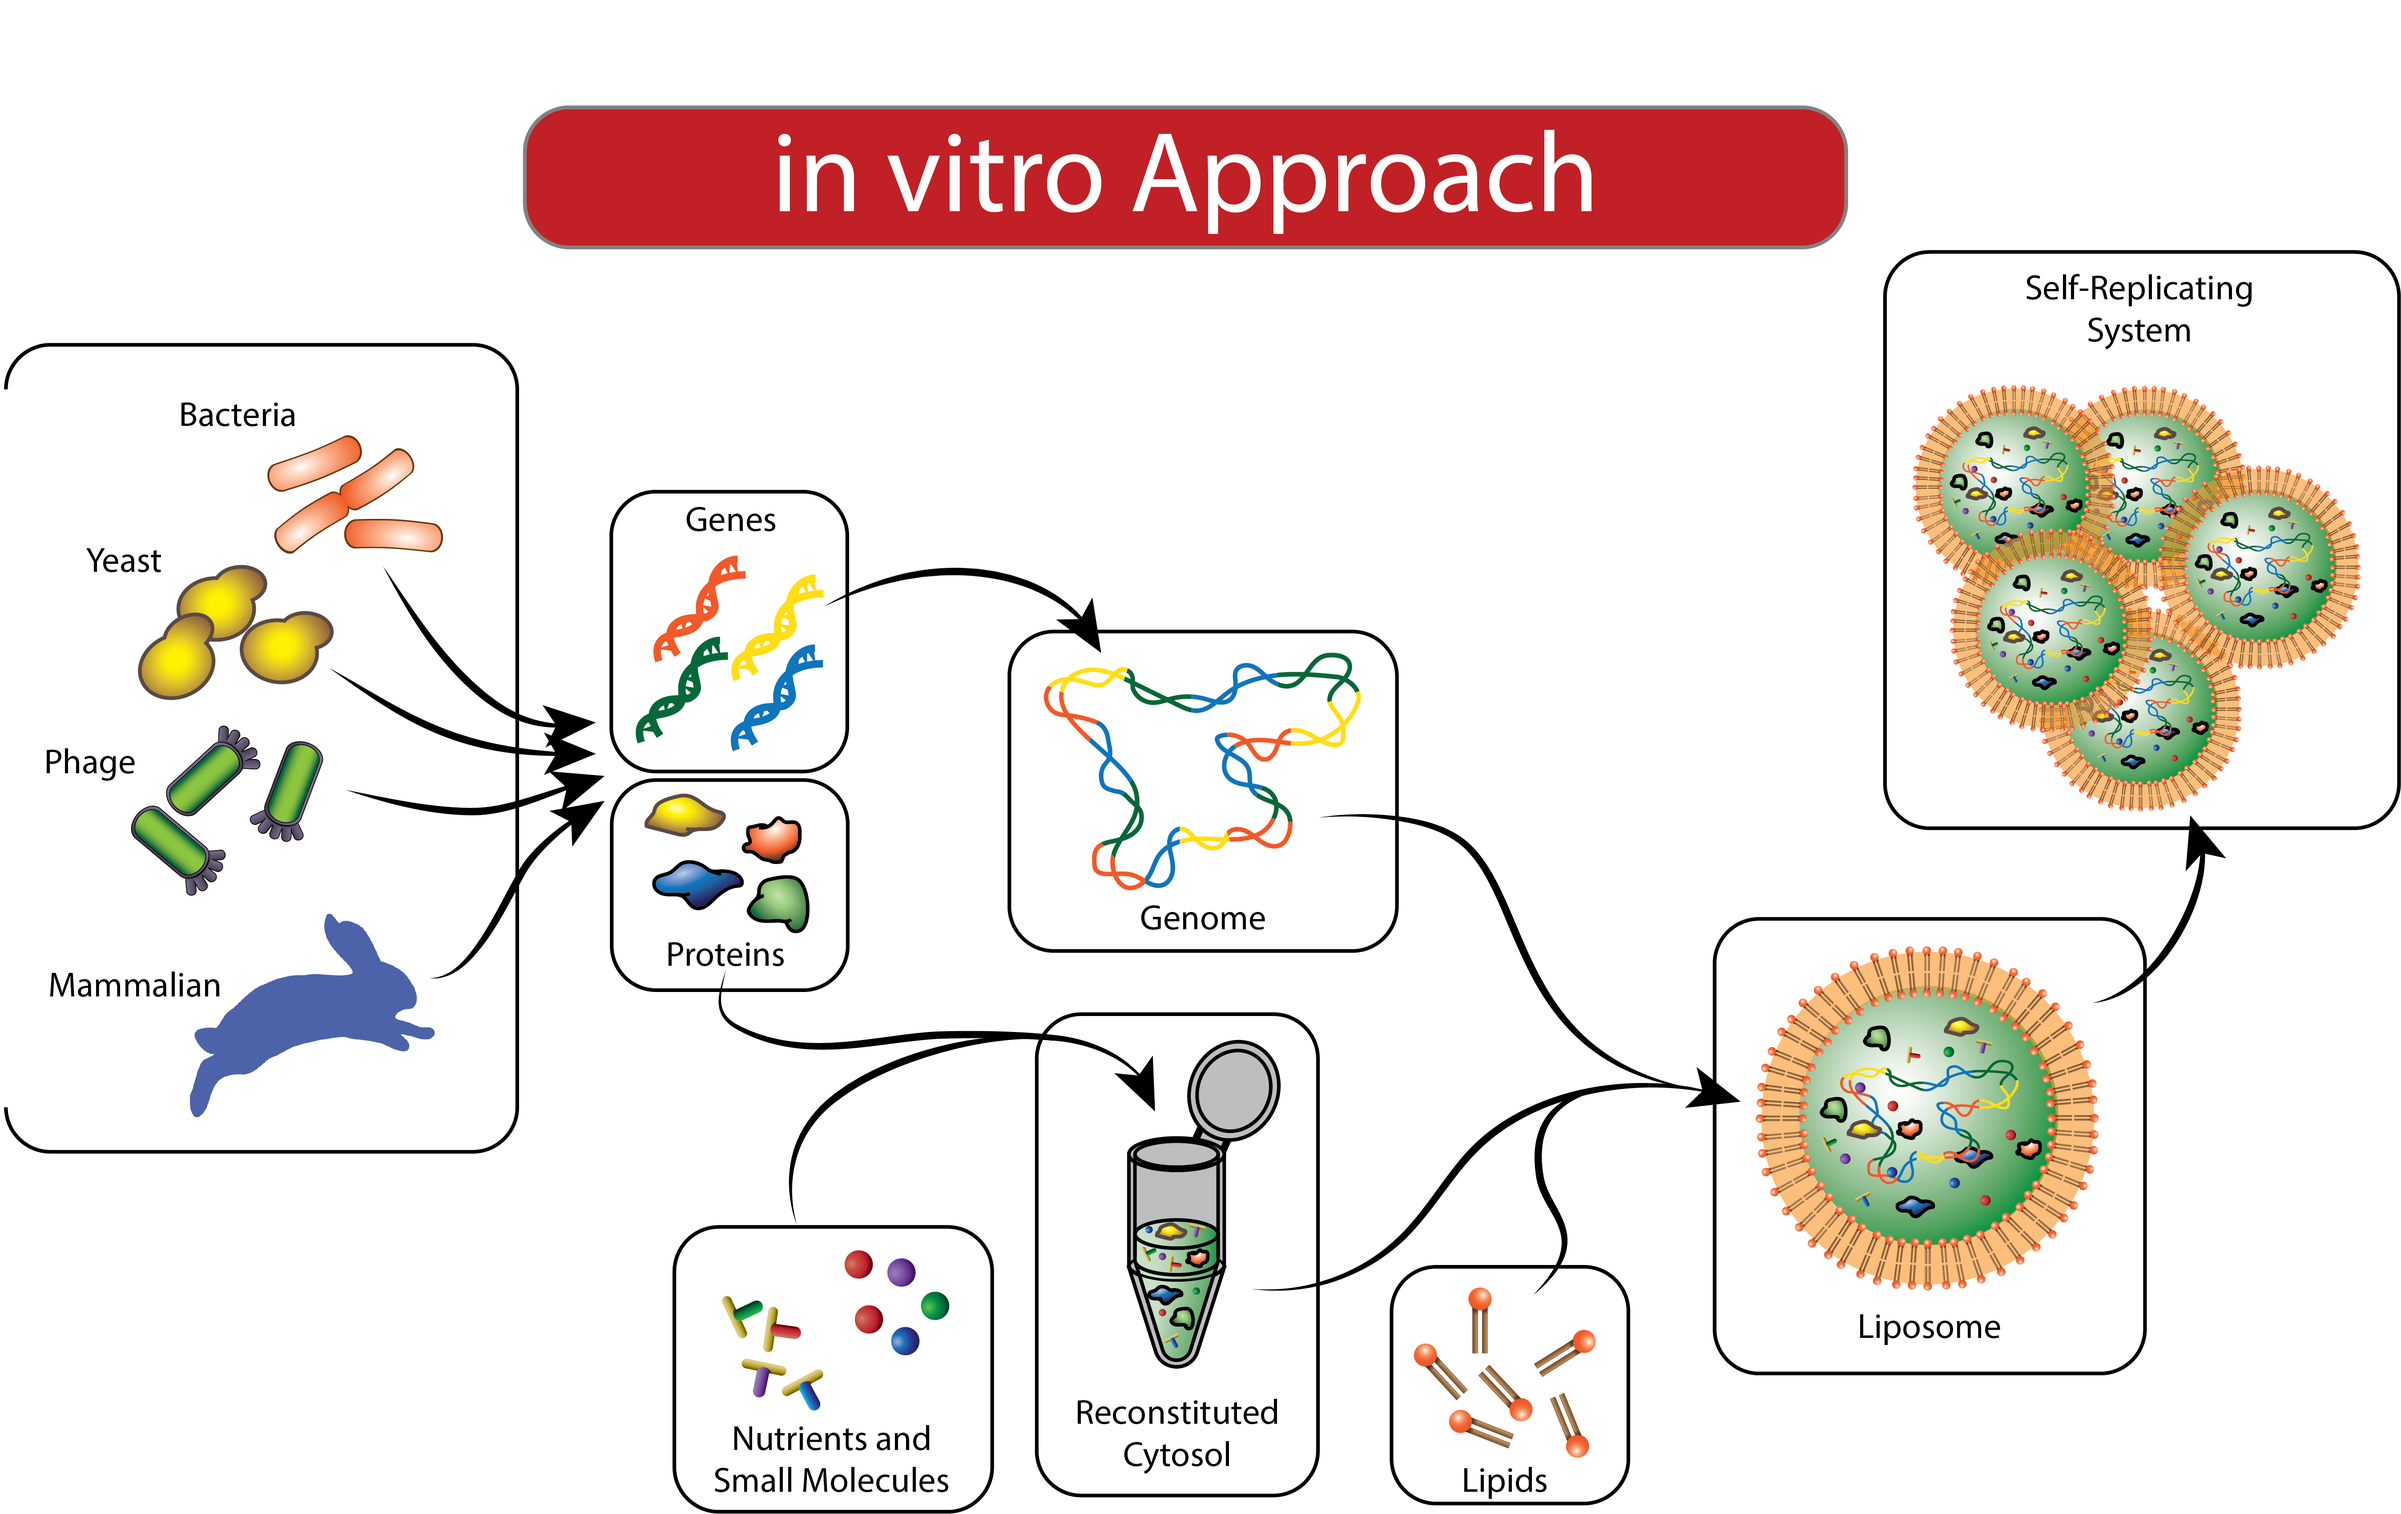
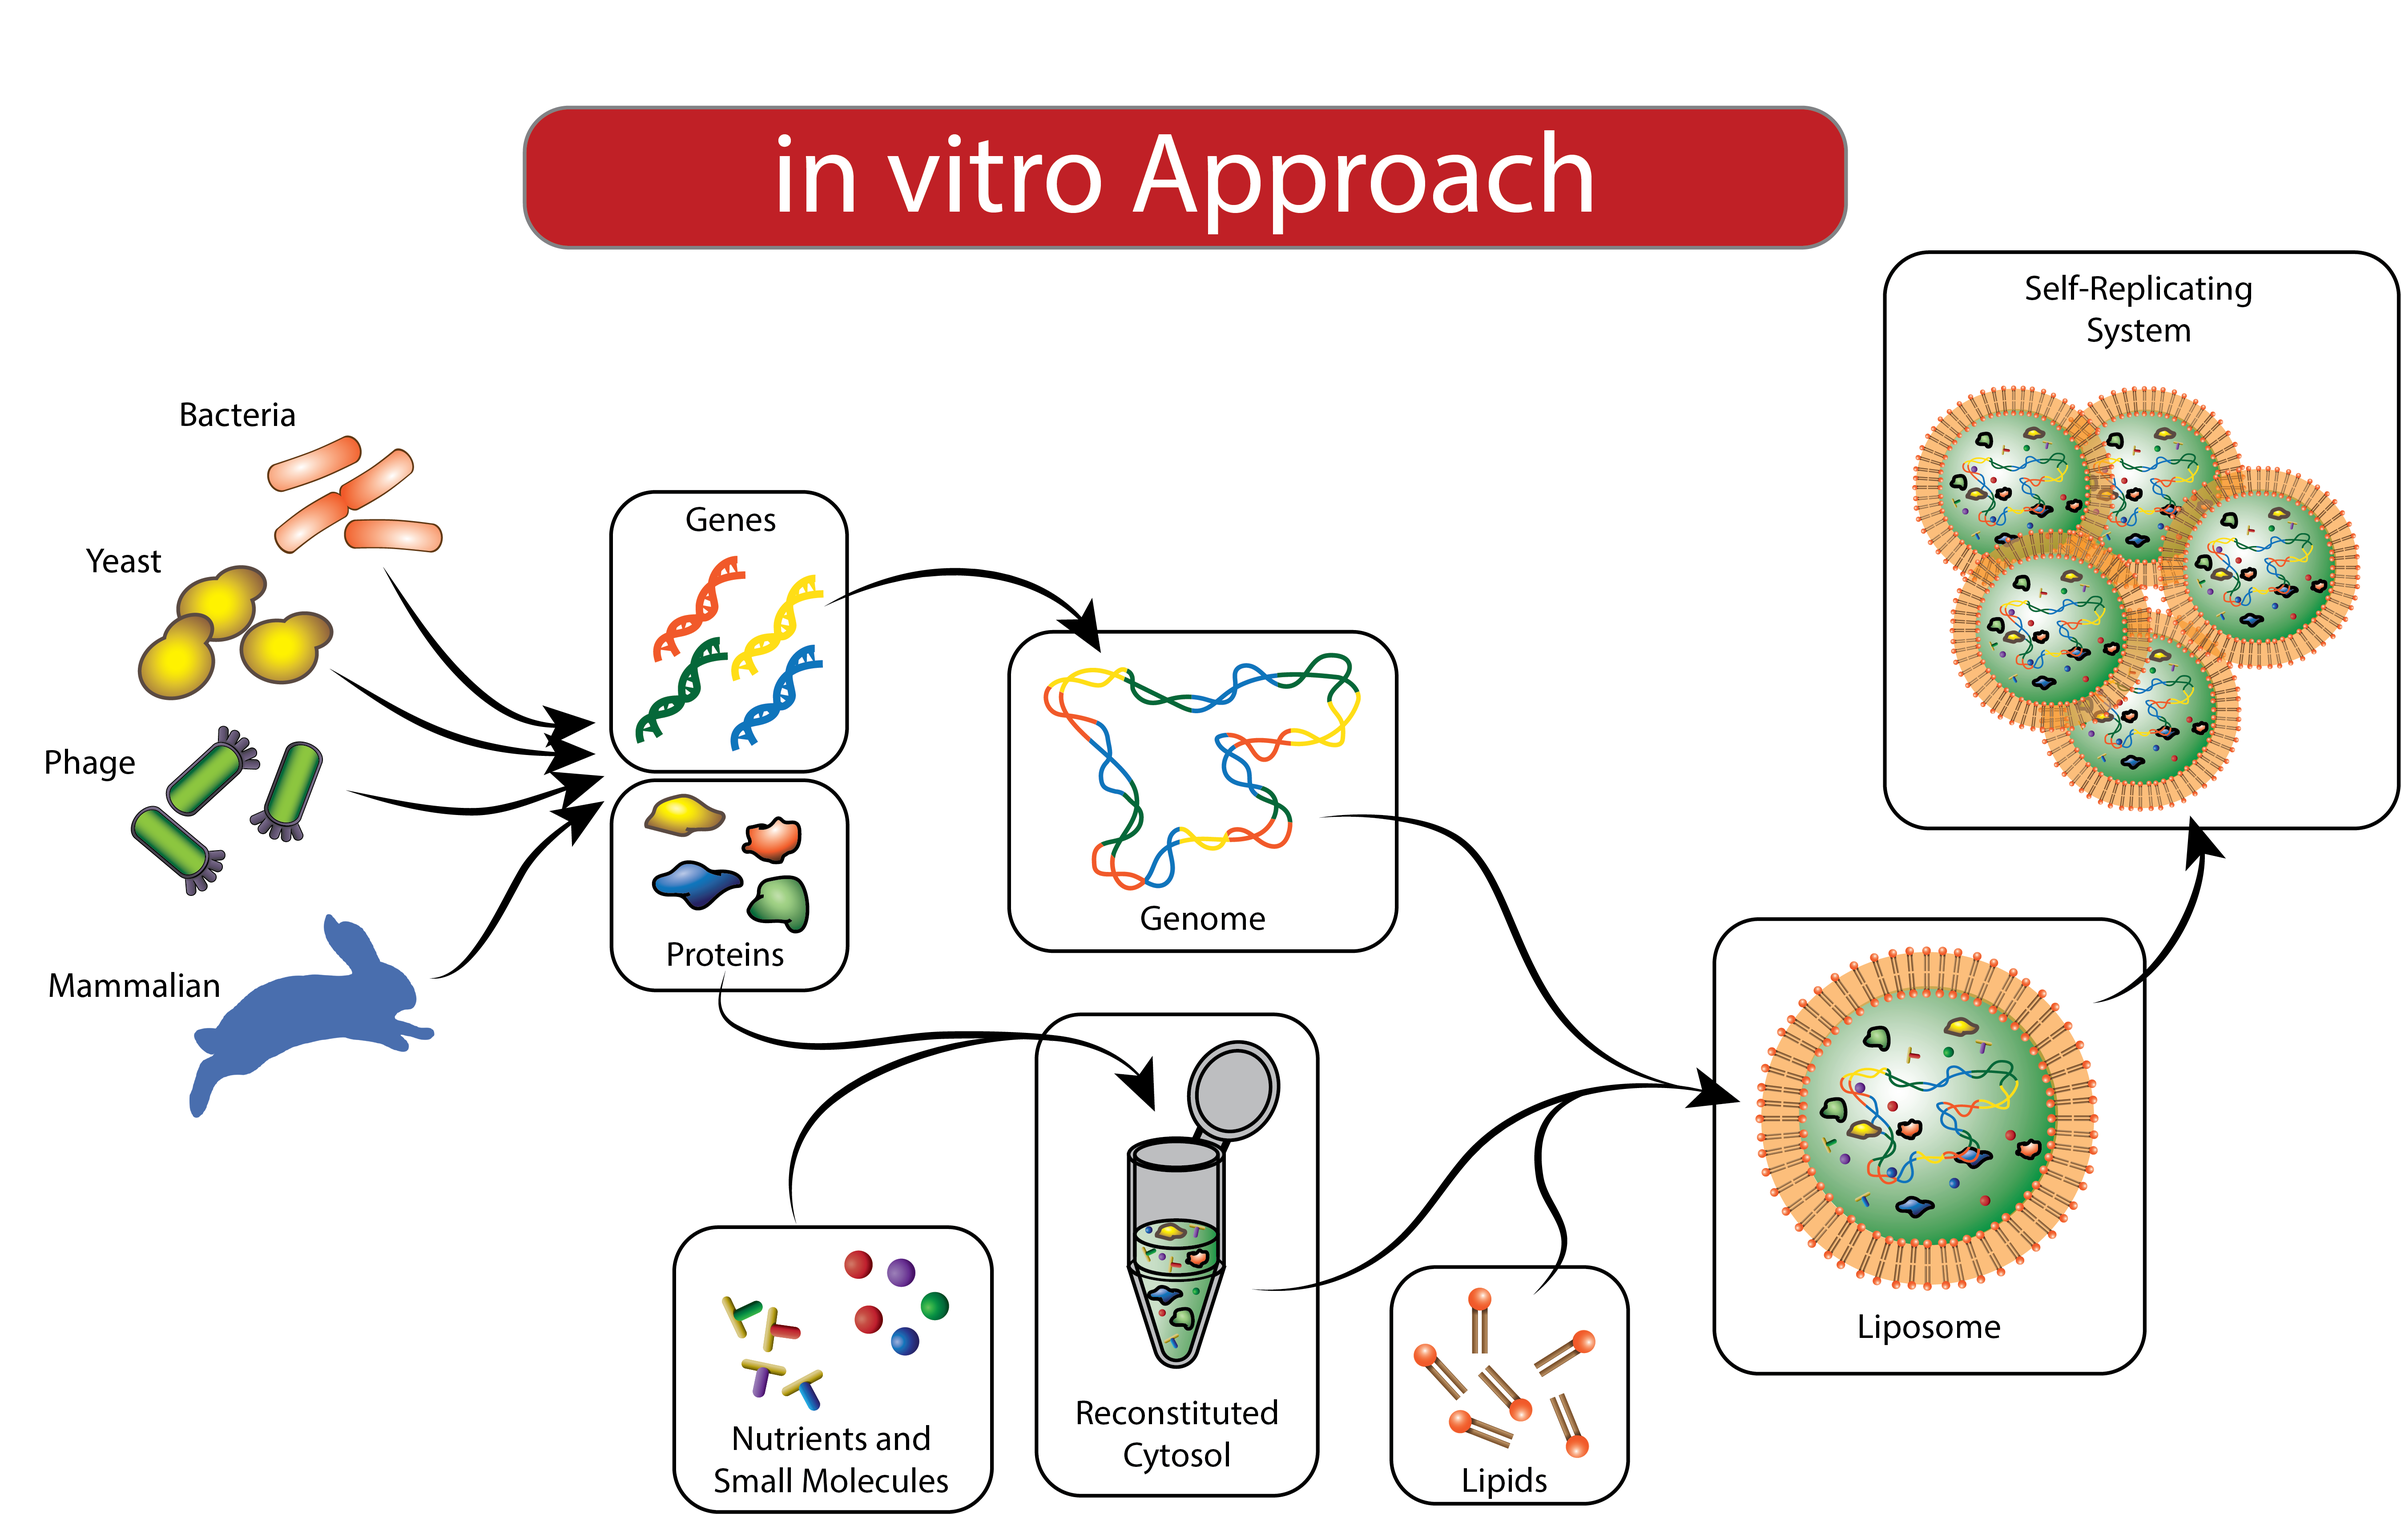
image fix

diff --git a/docs/project-list/biokernel/biokernel.md b/docs/project-list/biokernel/biokernel.md
@@ -39,9 +39,9 @@ For this to be achieved, we believe it will require a genome encoding a cell in 
       </div>
       <div id="collapse3" class="panel-collapse collapse">
         <div class="panel-body">
-				<p style="text-align:center;"><img src="/engineering/images/Approach.png" width = "500"></p>
+				<p style="text-align:center;"><img src="/engineering/images/Approach.png" width = "700"></p>
 				<p> Construction of a semi-synthetic cell, or the design of a synthetic genome encoding and operating within biomolecules derived from natural organisms, is the most technically approachable path towards the goal of a molecularly defined simulatable cell. </p>
-				<p style="text-align:center;"><img src="/engineering/images/in vitro.png" width = "500"></p>
+				<p style="text-align:center;"><img src="/engineering/images/in vitro.png" width = "850"></p>
 				<p> The prototyping platform to validate modules involve the design of chosen genes encoding the production of biomolecules to perform functions, building and integrating those genetic constructs and reconstituted cytosol, and testing them in a defined background while taking the requisite measurements to inform the next design cycle. </p>	
 		</div>
       </div>
